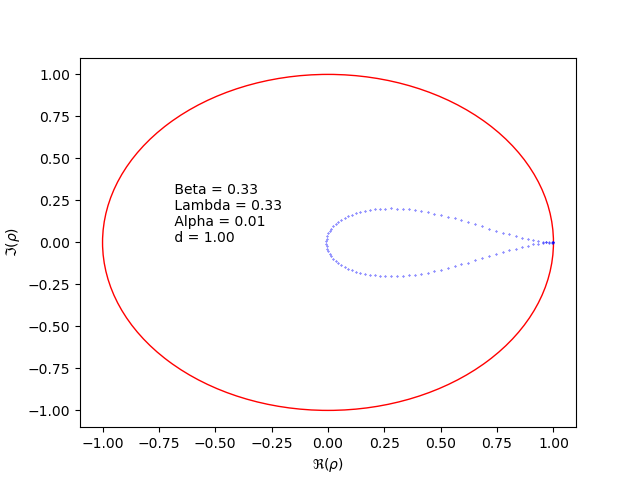
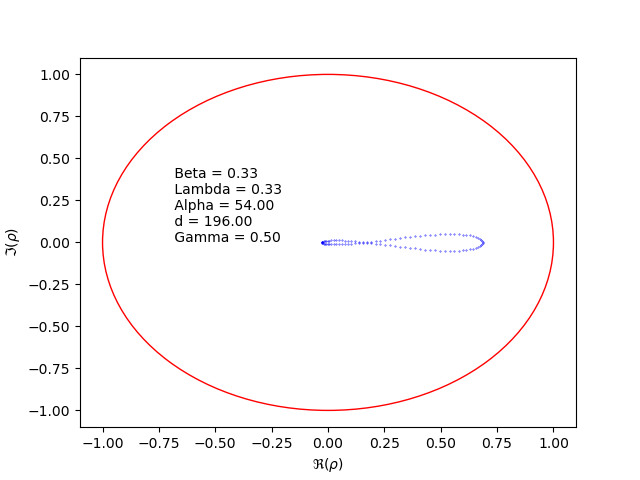
update

diff --git a/unidimensional/implicitplot.py b/unidimensional/implicitplot.py
@@ -35,16 +35,17 @@ l = 0.33
 # nu = complexHD(x,y)
 
 
-betaR = list(np.arange(0,1,0.1))
-lambdaR = list(np.arange(0,1,0.1))
+betaR = [0.33] #list(np.arange(0,1,0.2))[1:]
+lambdaR = [0.33] #list(np.arange(0,1,0.2))[1:]
+gammaR = [0.5,1,5,10,50,100]
 
+
+d = 196
+alphaR = list(np.arange(2*d//10,8*d//10,5))
 # blR = [(0.1,0.8), (0.1,0.5), (0.1,0.1),(0.33,0.33),(0.2,0.5),(0.5,0.2),(0.5,0.1),(0.8,0.1)]
-alphaR = list(np.arange(0,1,0.1))
 
 k = 1
 thetaR = np.linspace(-np.pi,np.pi,100)
-print(thetaR[0], thetaR[-1])
-print(np.exp(-np.complex(0,thetaR[0])),np.exp(-np.complex(0,thetaR[-1])))
 
 img = 0
 
@@ -53,47 +54,48 @@ plt.figure()
 for b in betaR:
     for l in lambdaR:
 # for b, l in blR:
-        for a in alphaR:
-            if b+l > 1:
-                pass
-            else:
-                img+=1
+        for g in gammaR:
+            for a in alphaR:
+                if b+l > 1:
+                    pass
+                else:
+                    img+=1
+                    
+                    ax = plt.gca()
+                    fig = plt.gcf()
+                    ax.cla()
+                    circle = plt.Circle((0,0),1,color='r',fill=False)
+                    ax.add_patch(circle)
+                    for theta in thetaR:
+                        nu = np.complex(0,theta)
+                        rho = (l*g*np.exp(nu) + (1 - b - l - a/d*g**2) + a/d*g* np.exp(-nu) )/(1-b*g*np.exp(-nu))
+                        x, y = np.real(rho), np.imag(rho)
+                        plt.scatter(x,y,s=0.1,c='b')
+                        # if x**2 + y**2 > 1:
+                        #     count += 1
+                        #     print('theta = ', theta)
+                        #     print(x**2 + y**2, rho)
+                        #     plt.scatter(b,l,c='b', s=0.5)
+                        #     # print(x**2 + y**2)
+                        #     # sleep(1)
                 
-                # ax = plt.gca()
-                # fig = plt.gcf()
-                # ax.cla()
-                # circle = plt.Circle((0,0),1,color='r',fill=False)
-                # ax.add_patch(circle)
-                for theta in thetaR:
-                    nu = np.complex(0,theta)
-                    rho = (l*np.exp(nu) + (1 - b - l) + a/d* np.exp(-nu) - a/d)/(1-b*np.exp(-nu))
-                    x, y = np.real(rho), np.imag(rho)
-                    # plt.scatter(x,y,s=0.1,c='b')
-                    if x**2 + y**2 > 1:
-                        count += 1
-                        print('theta = ', theta)
-                        print(x**2 + y**2, rho)
-                        plt.scatter(b,l,c='b', s=0.5)
-                        # print(x**2 + y**2)
-                        # sleep(1)
-                
-                # plt.xlabel('$\Re ( \\rho )$')
-                # plt.ylabel('$\Im ( \\rho )$')
+                plt.xlabel('$\Re ( \\rho )$')
+                plt.ylabel('$\Im ( \\rho )$')
                 # plt.title('$\Im (\\theta) \\neq 0$ & $\Re (\\theta) = 0$ ')
-                # plt.text(-0.7,0,f' Beta = {b:.2f} \n Lambda = {l:.2f} \n Alpha = {a:.2f} \n d = {d:.2f}')
-                # plt.savefig(os.path.join('curves',f'{img}-{b:.2f}-{l:.2f}.png'))
+                plt.text(-0.7,0,f' Beta = {b:.2f} \n Lambda = {l:.2f} \n Alpha = {a:.2f} \n d = {d:.2f} \n Gamma = {g:.2f}')
+                plt.savefig(os.path.join('curves',f'{img}-{b:.2f}-{l:.2f}.png'))
                 # plt.xlim(0.99,1.01)
                 # plt.ylim(-0.01,0.01)
                 # plt.text(1.005,0.005,f' Beta = {b} \n Lambda = {l} \n Alpha = {a} \n d = {d}')
                 # plt.savefig(os.path.join('curves',f'{img}-{b}-{l}-zoomed.png'))
 
-print(count)
-plt.xlabel('$\\beta$')
-plt.xlim(0,1)
-plt.ylim(0,1)
-plt.ylabel('$\lambda$')
-plt.title('$\\rho$ can go out of unit circle close to $\\theta = 0$')
-plt.show()
+# print(count)
+# plt.xlabel('$\\beta$')
+# plt.xlim(0,1)
+# plt.ylim(0,1)
+# plt.ylabel('$\lambda$')
+# plt.title('$\\rho$ can go out of unit circle close to $\\theta = 0$')
+# plt.show()
 
 
 # plt.figure()
